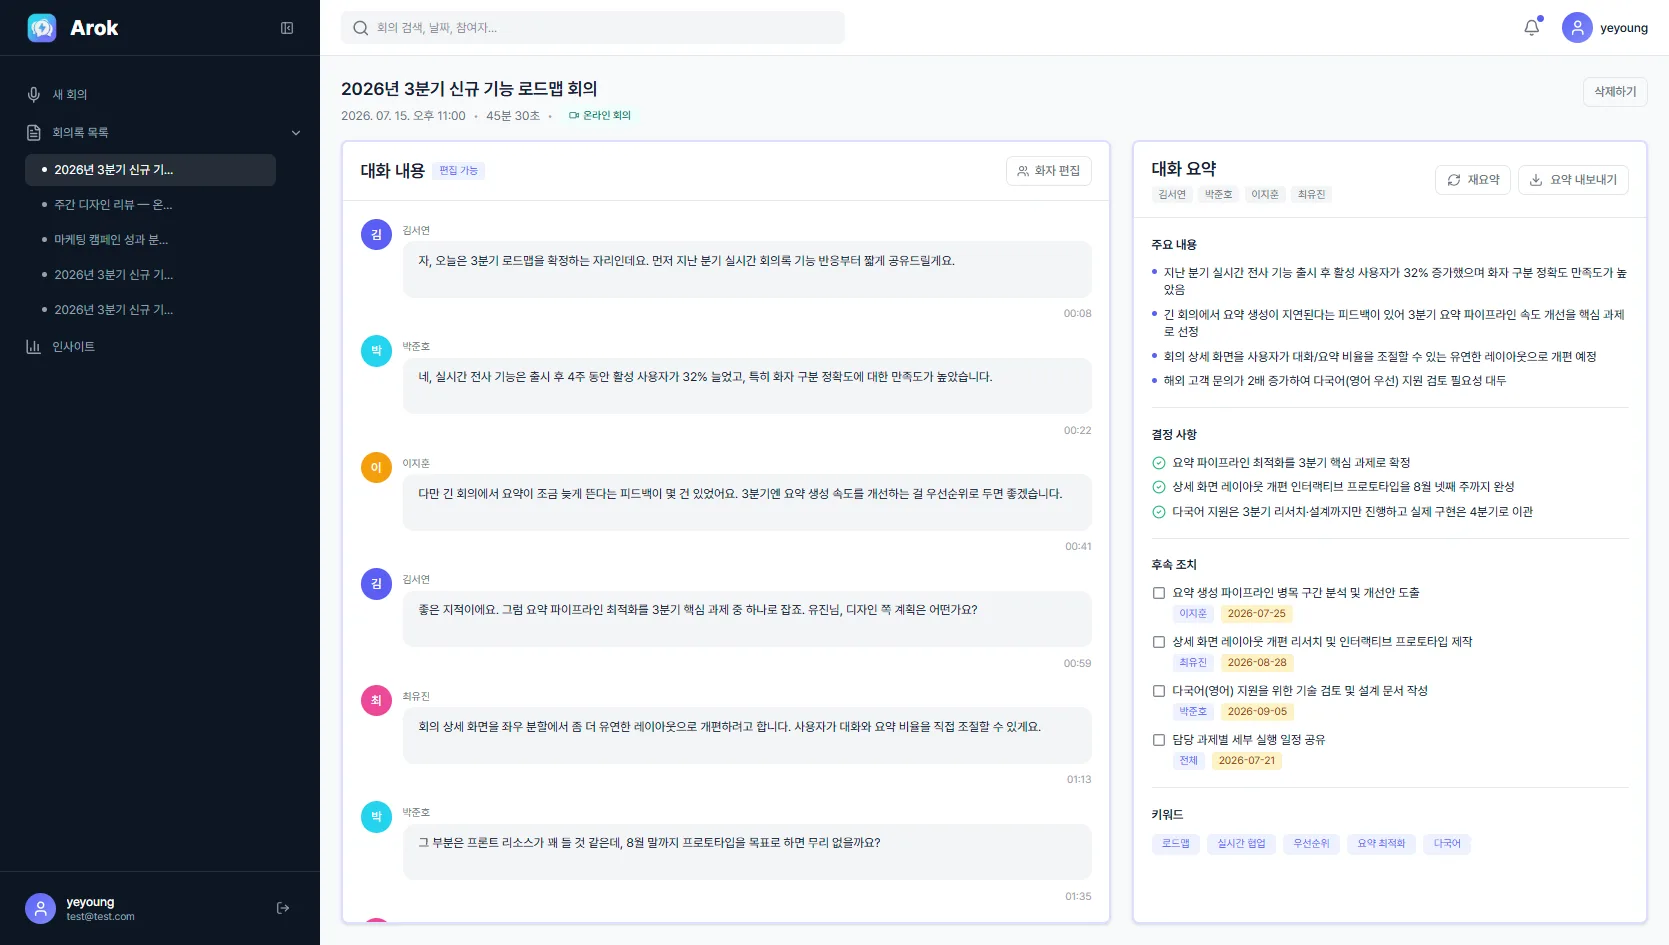
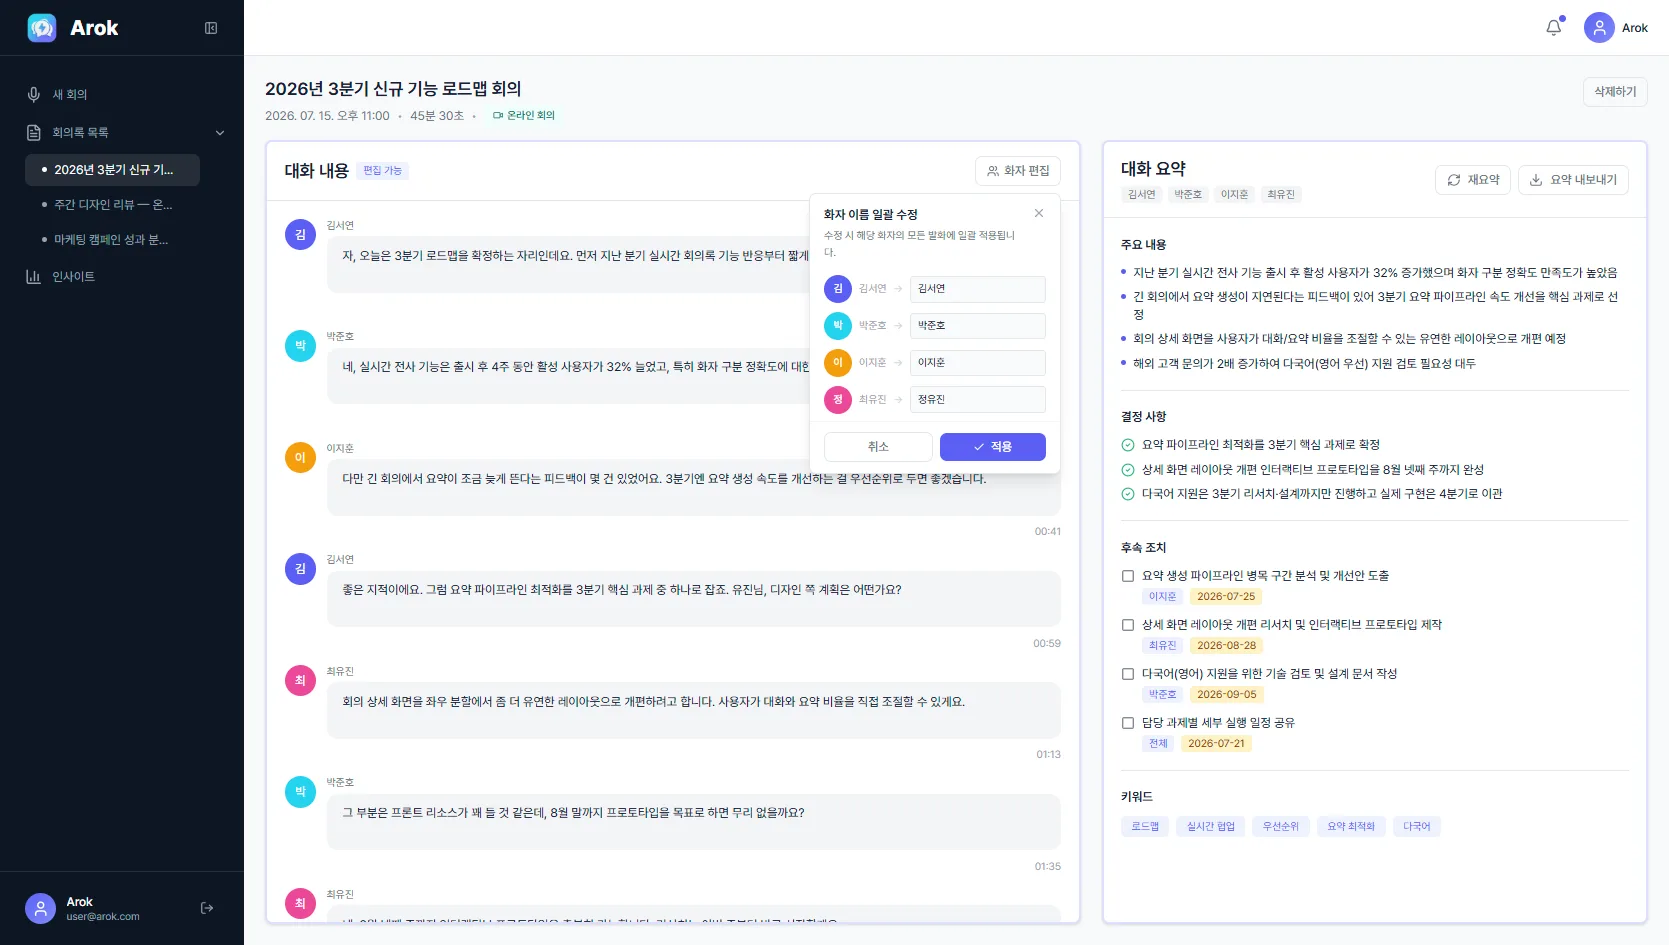
feat: 랜딩 페이지 - 제품 소개 섹션에 그룹 회의·인사이트 추가

diff --git a/src/components/screens/LandingScreen.tsx b/src/components/screens/LandingScreen.tsx
@@ -20,6 +20,8 @@ import { SECTION_IDS, NAV_ITEMS, scrollToSection, type SectionId } from "../land
 import logoArok from "../../assets/logo_arok.webp";
 import meetingListShot from "../../assets/images/meeting_list_screenshot.webp";
 import meetingDetailShot from "../../assets/images/meeting_detail_screenshot.webp";
+import groupMeetingShot from "../../assets/images/group_meeting_screenshot.webp";
+import userInsightShot from "../../assets/images/user_insight_screenshot.webp";
 import iconClock from "../../assets/icons/clock_icon.webp";
 import iconTarget from "../../assets/icons/target_icon.webp";
 import iconLayers from "../../assets/icons/layers_icon.webp";
@@ -90,6 +92,42 @@ const steps = [
     title: "확인 및 공유",
     desc: "생성된 회의록을 검토하고 팀과 공유하거나 문서로 내보내세요.",
     iconImg: iconCheck,
+  },
+];
+
+// 제품 소개 — 이미지 행. 렌더 시 index 짝/홀로 이미지 좌/우 교차
+const showcaseRows = [
+  {
+    img: meetingListShot,
+    alt: "회의록 목록 화면",
+    accent: "#5B5FF5",
+    title: "회의록 관리 및 검색",
+    desc: "모든 회의록이 한 곳에 정리됩니다. 날짜, 키워드, 회의 유형으로 빠르게 검색하고 원하는 회의록을 찾아보세요.",
+    points: ["날짜별 정렬", "키워드 및 유형 검색", "원클릭 삭제"],
+  },
+  {
+    img: meetingDetailShot,
+    alt: "회의록 상세 화면",
+    accent: "#A855F7",
+    title: "AI 회의록 상세 보기",
+    desc: "AI가 자동 생성한 요약을 한 화면에서 확인하고, 필요하면 다시 요약하거나 파일로 내보낼 수 있습니다. 대화 내용과 화자 이름도 직접 편집할 수 있습니다.",
+    points: ["AI 요약 · 재요약 지원", "요약 파일 내보내기", "대화 내용 · 화자 편집"],
+  },
+  {
+    img: groupMeetingShot,
+    alt: "온라인 그룹 회의 화면",
+    accent: "#22D3EE",
+    title: "온라인 그룹 회의",
+    desc: "회의 코드만 있으면 여러 참여자가 실시간으로 접속합니다. 발화하는 즉시 STT로 대화가 자막처럼 올라오고, 방장이 종료하면 모든 참여자에게 회의록이 자동으로 공유됩니다.",
+    points: ["발화 즉시 STT 자막", "회의 코드로 간편 참여", "종료 시 자동 공유", "안정적인 실시간 환경"],
+  },
+  {
+    img: userInsightShot,
+    alt: "회의 인사이트 화면",
+    accent: "#F59E0B",
+    title: "회의 인사이트 분석",
+    desc: "쌓인 회의 데이터를 분석해 자주 등장한 키워드와 논의 흐름을 시각화합니다. 팀의 대화 패턴을 한눈에 파악하세요.",
+    points: ["키워드 차트", "발언 분포 분석", "기간별 통계"],
   },
 ];
 
@@ -421,63 +459,35 @@ export function LandingScreen() {
           </FadeIn>
 
           <div className="space-y-20">
-            <FadeIn delay={0.1}>
-              <div className="grid md:grid-cols-2 gap-12 items-center">
-                <div className="md:order-2">
-                  <div
-                    className="inline-flex items-center gap-2 text-xs font-semibold px-3 py-1.5 rounded-full mb-4"
-                    style={{ backgroundColor: "#5B5FF520", color: "#5B5FF5" }}
-                  >
-                    <CheckCircle className="w-3.5 h-3.5" />
-                    핵심 기능
+            {showcaseRows.map((row, i) => {
+              const imageLeft = i % 2 === 0; // 짝수 행: 이미지 왼쪽 / 홀수 행: 이미지 오른쪽
+              return (
+                <FadeIn key={row.title} delay={0.1}>
+                  <div className="grid md:grid-cols-2 gap-12 items-center">
+                    <div className={imageLeft ? "md:order-2" : ""}>
+                      <h3 className="text-2xl font-bold text-white mb-4">{row.title}</h3>
+                      <p className="text-white/50 leading-relaxed mb-6">{row.desc}</p>
+                      <ul className="space-y-2.5">
+                        {row.points.map((pt) => (
+                          <li key={pt} className="flex items-center gap-3 text-white/70 text-sm">
+                            <div
+                              className="w-5 h-5 rounded-full flex items-center justify-center flex-shrink-0"
+                              style={{ backgroundColor: `${row.accent}30` }}
+                            >
+                              <CheckCircle className="w-3 h-3" style={{ color: row.accent }} />
+                            </div>
+                            {pt}
+                          </li>
+                        ))}
+                      </ul>
+                    </div>
+                    <div className={imageLeft ? "md:order-1" : ""}>
+                      <Screenshot src={row.img} alt={row.alt} variant="dark" />
+                    </div>
                   </div>
-                  <h3 className="text-2xl font-bold text-white mb-4">회의록 관리 및 검색</h3>
-                  <p className="text-white/50 leading-relaxed mb-6">모든 회의록이 한 곳에 정리됩니다. 날짜, 참여자, 키워드로 빠르게 검색하고 원하는 회의록을 찾아보세요.</p>
-                  <ul className="space-y-2.5">
-                    {["날짜별 정렬", "키워드 검색", "원클릭 삭제"].map((pt) => (
-                      <li key={pt} className="flex items-center gap-3 text-white/70 text-sm">
-                        <div className="w-5 h-5 rounded-full flex items-center justify-center flex-shrink-0" style={{ backgroundColor: "#5B5FF530" }}>
-                          <CheckCircle className="w-3 h-3 text-[#5B5FF5]" />
-                        </div>
-                        {pt}
-                      </li>
-                    ))}
-                  </ul>
-                </div>
-                <div className="md:order-1">
-                  <Screenshot src={meetingListShot} alt="회의록 목록 화면" variant="dark" />
-                </div>
-              </div>
-            </FadeIn>
-
-            <FadeIn delay={0.1}>
-              <div className="grid md:grid-cols-2 gap-12 items-center">
-                <div>
-                  <div
-                    className="inline-flex items-center gap-2 text-xs font-semibold px-3 py-1.5 rounded-full mb-4"
-                    style={{ backgroundColor: "#818CF820", color: "#818CF8" }}
-                  >
-                    <CheckCircle className="w-3.5 h-3.5" />
-                    AI 요약
-                  </div>
-                  <h3 className="text-2xl font-bold text-white mb-4">AI 회의록 상세 보기</h3>
-                  <p className="text-white/50 leading-relaxed mb-6">AI가 자동 생성한 요약과 전체 대화 내용을 한 화면에서 확인하세요. 화자별 발언과 핵심 액션 아이템이 깔끔하게 정리됩니다.</p>
-                  <ul className="space-y-2.5">
-                    {["AI 자동 요약", "화자별 발언 정리", "액션 아이템 추출"].map((pt) => (
-                      <li key={pt} className="flex items-center gap-3 text-white/70 text-sm">
-                        <div className="w-5 h-5 rounded-full flex items-center justify-center flex-shrink-0" style={{ backgroundColor: "#818CF830" }}>
-                          <CheckCircle className="w-3 h-3 text-[#818CF8]" />
-                        </div>
-                        {pt}
-                      </li>
-                    ))}
-                  </ul>
-                </div>
-                <div>
-                  <Screenshot src={meetingDetailShot} alt="회의록 상세 화면" variant="dark" />
-                </div>
-              </div>
-            </FadeIn>
+                </FadeIn>
+              );
+            })}
           </div>
         </div>
       </section>
